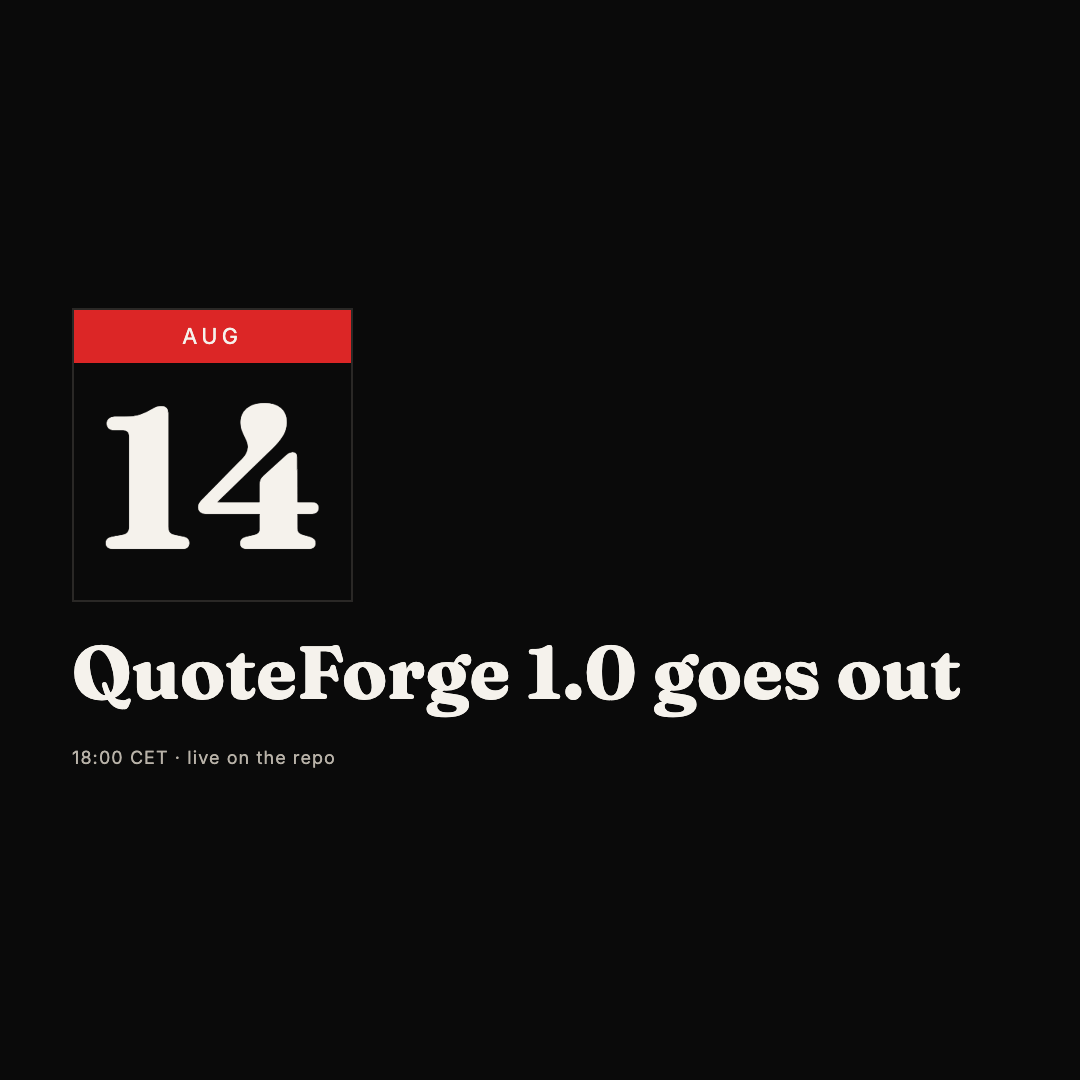
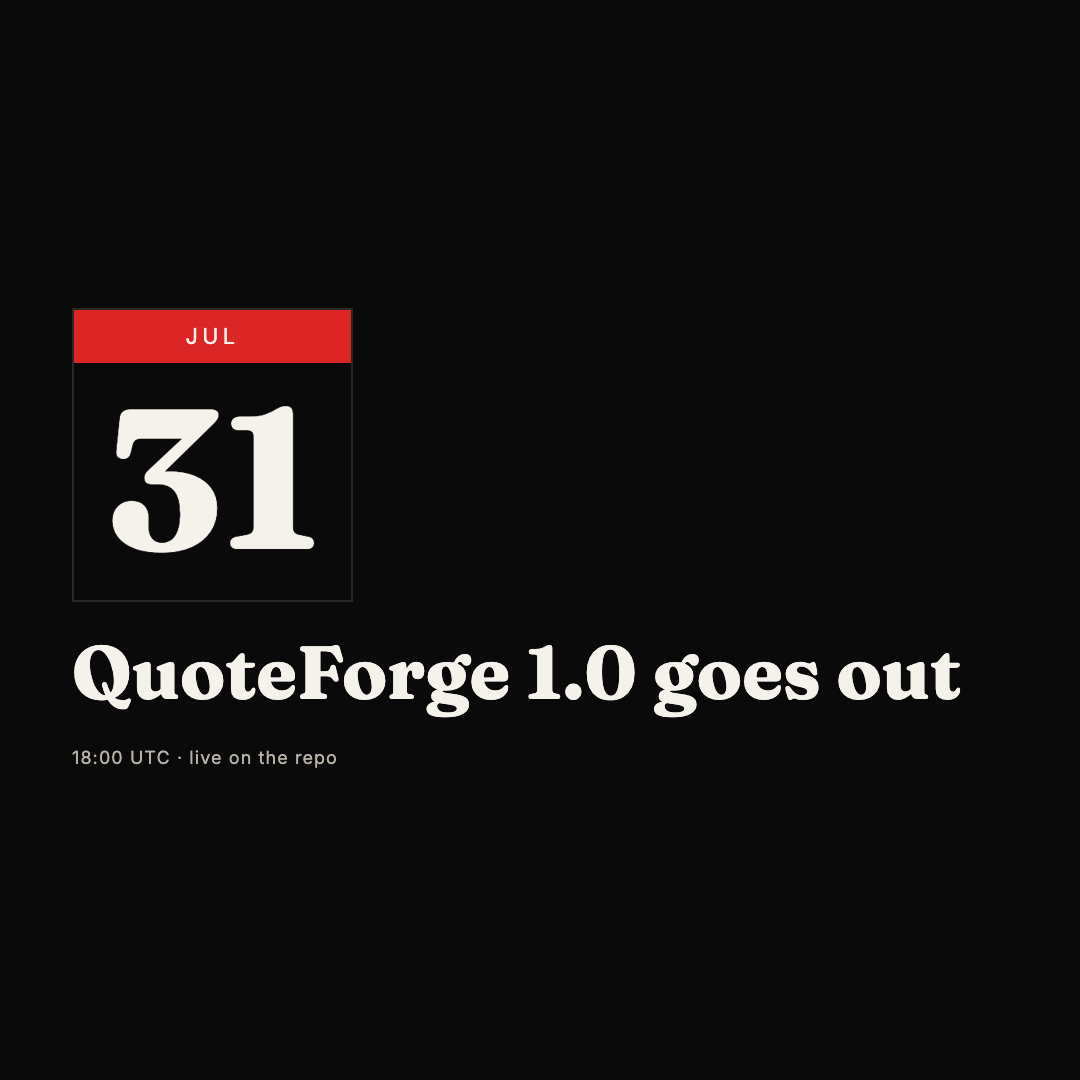
fix(quoteforge[examples]): use today's date and UTC in dated demos

diff --git a/src/__tests__/templates.test.ts b/src/__tests__/templates.test.ts
@@ -579,12 +579,20 @@ describe("diff template", () => {
     const card = CardContentSchema.parse(loadJSON("content/examples/diff-demo.json"));
     const html = renderTemplate(card, theme, { w: 1200, h: 675 });
 
+    const rows = card.blocks.find((b) => b.type === "bullet-list");
+    const items = rows && "items" in rows ? rows.items : [];
+    const minus = items.filter((i) => i.label === "-").length;
+    const plus = items.filter((i) => i.label === "+").length;
+    const foot = card.blocks.filter((b) => b.type === "text").at(-1);
+
     const body = bodyOnly(html);
-    expect(body.match(/diff-row minus/g)?.length).toBe(1);
-    expect(body.match(/diff-row plus/g)?.length).toBe(2);
+    expect(minus).toBeGreaterThan(0);
+    expect(plus).toBeGreaterThan(0);
+    expect(body.match(/diff-row minus/g)?.length).toBe(minus);
+    expect(body.match(/diff-row plus/g)?.length).toBe(plus);
     expect(html).toContain("diff-head");
     expect(html).toContain("diff-foot");
-    expect(html).toContain("Content groups instead of stranding.");
+    expect(html).toContain(foot && "content" in foot ? foot.content : "");
   });
 
   test("style.css uses only opacity and line-through to distinguish removals — no hex, no color-name literals", () => {
@@ -645,7 +653,9 @@ describe("ticket template", () => {
     expect(html).toContain("tk-perf");
     expect(html).toContain('<span class="no">042</span>');
     expect(html).toContain('<span class="lbl">Admit one</span>');
-    expect(html).toContain("<span>14 Aug</span>");
+    const meta = card.blocks.find((b) => b.type === "bullet-list");
+    const firstMeta = meta && "items" in meta ? meta.items[0] : undefined;
+    expect(html).toContain(`<span>${firstMeta?.label}</span>`);
     expect(html).not.toContain("<span>042</span>");
   });
 
@@ -661,8 +671,11 @@ describe("calendar template", () => {
     const card = CardContentSchema.parse(loadJSON("content/examples/calendar-demo.json"));
     const html = renderTemplate(card, theme, { w: 1080, h: 1080 });
 
-    expect(html).toContain('<div class="cal-month">Aug</div>');
-    expect(html).toContain('<div class="cal-day">14</div>');
+    const first = card.blocks.find((b) => b.type === "callout");
+    const item = first && "items" in first ? first.items[0] : undefined;
+
+    expect(html).toContain(`<div class="cal-month">${item?.label}</div>`);
+    expect(html).toContain(`<div class="cal-day">${item?.text}</div>`);
     expect(html).toContain("cal-what");
     expect(html).toContain("cal-when");
   });
